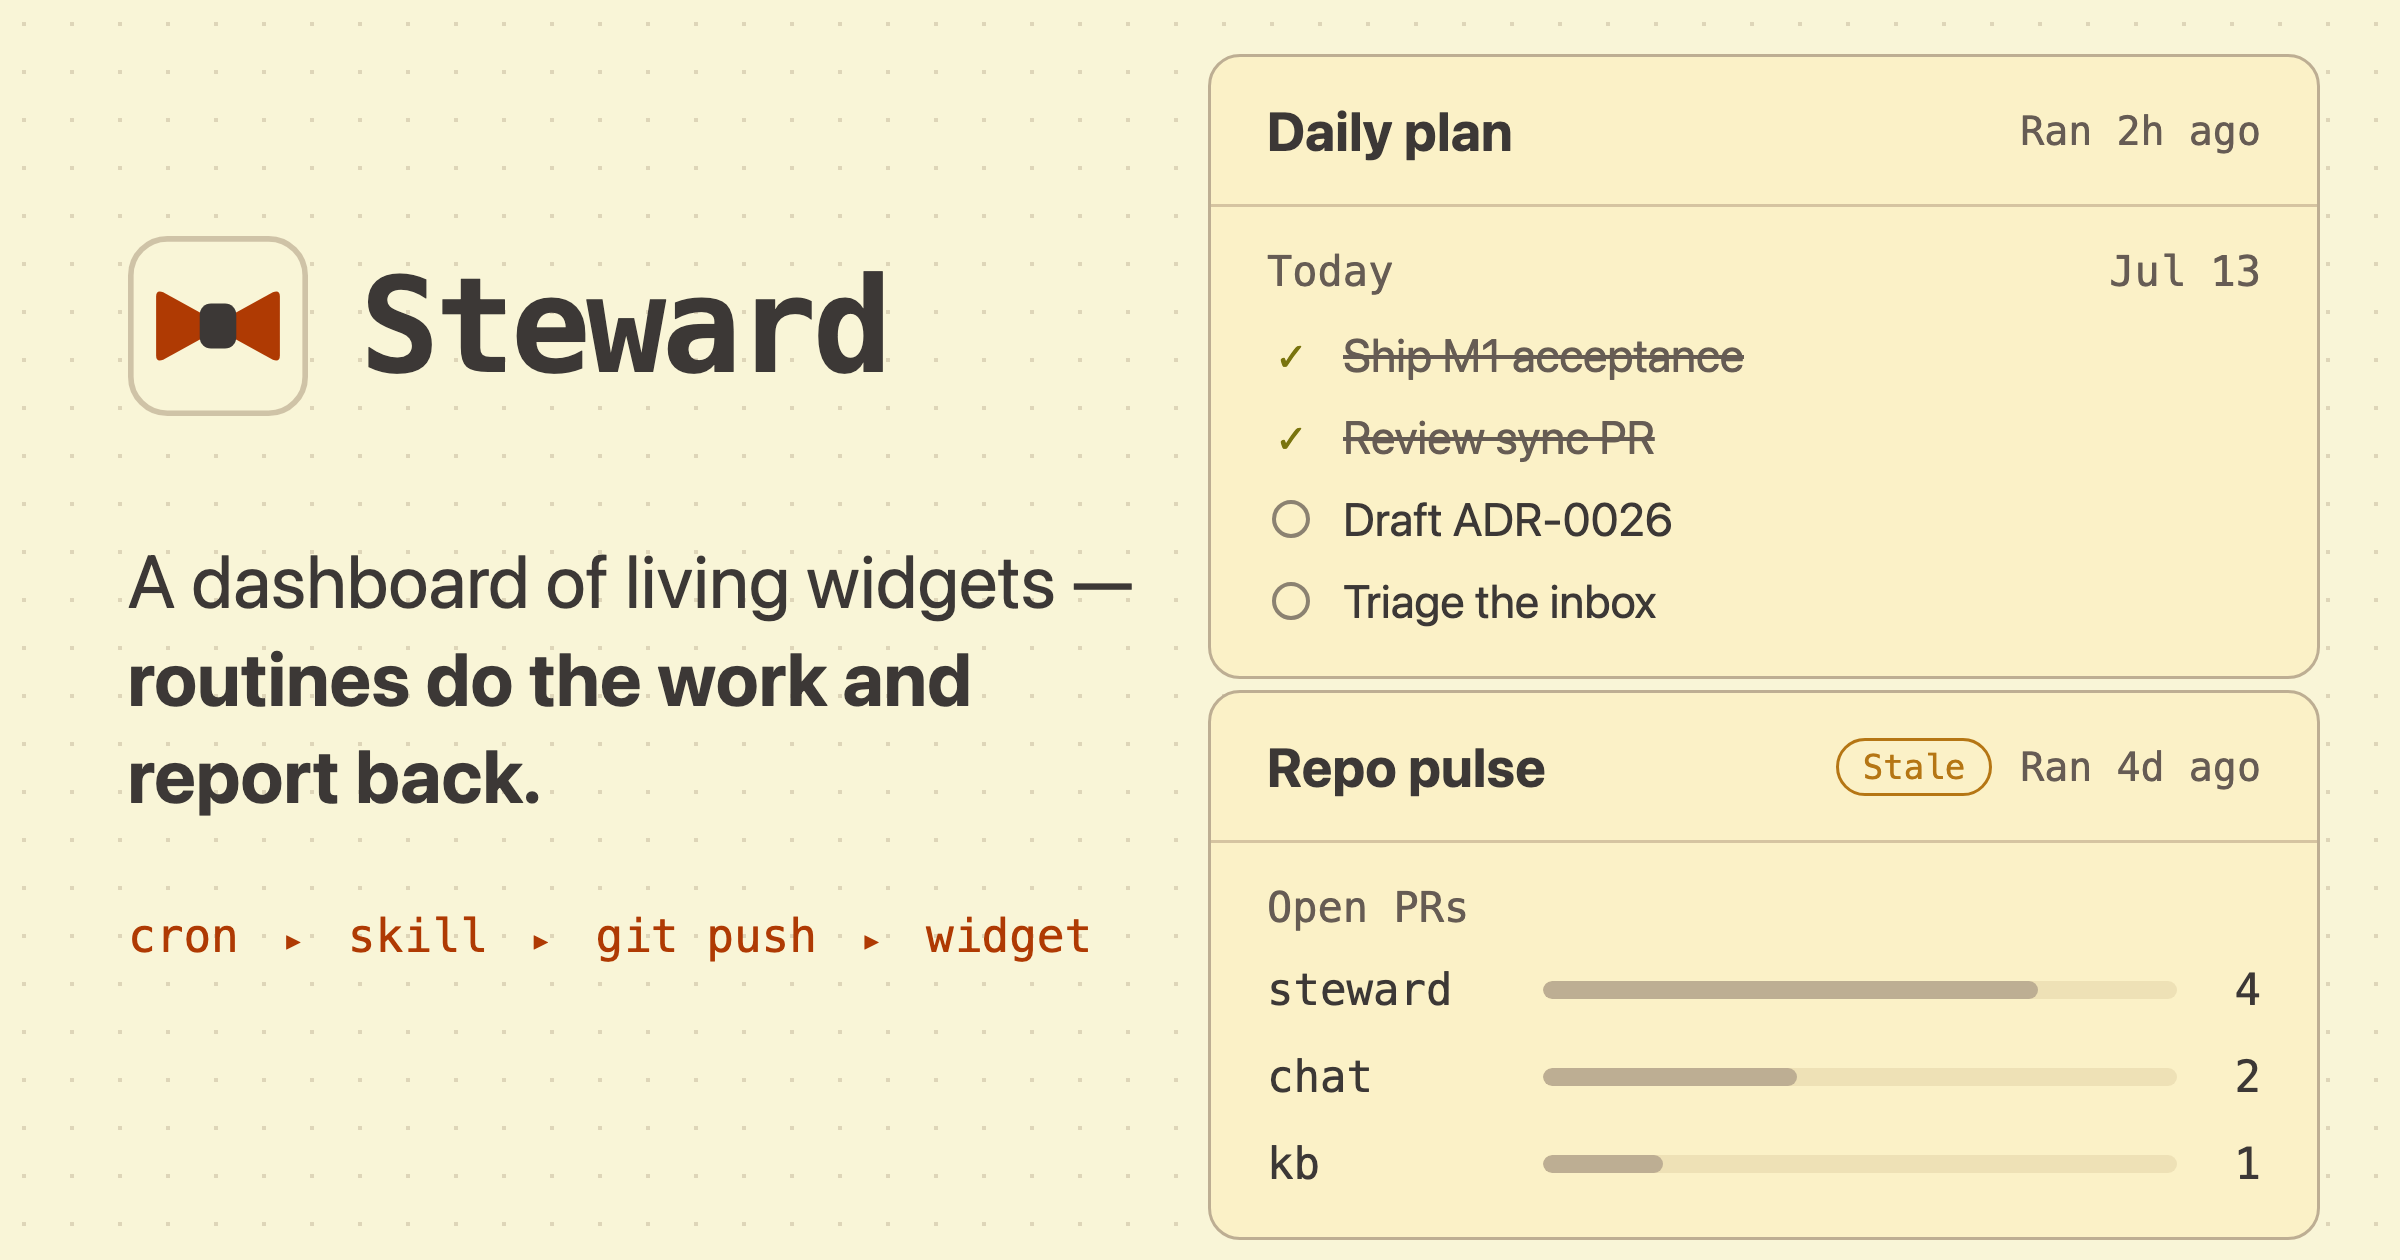
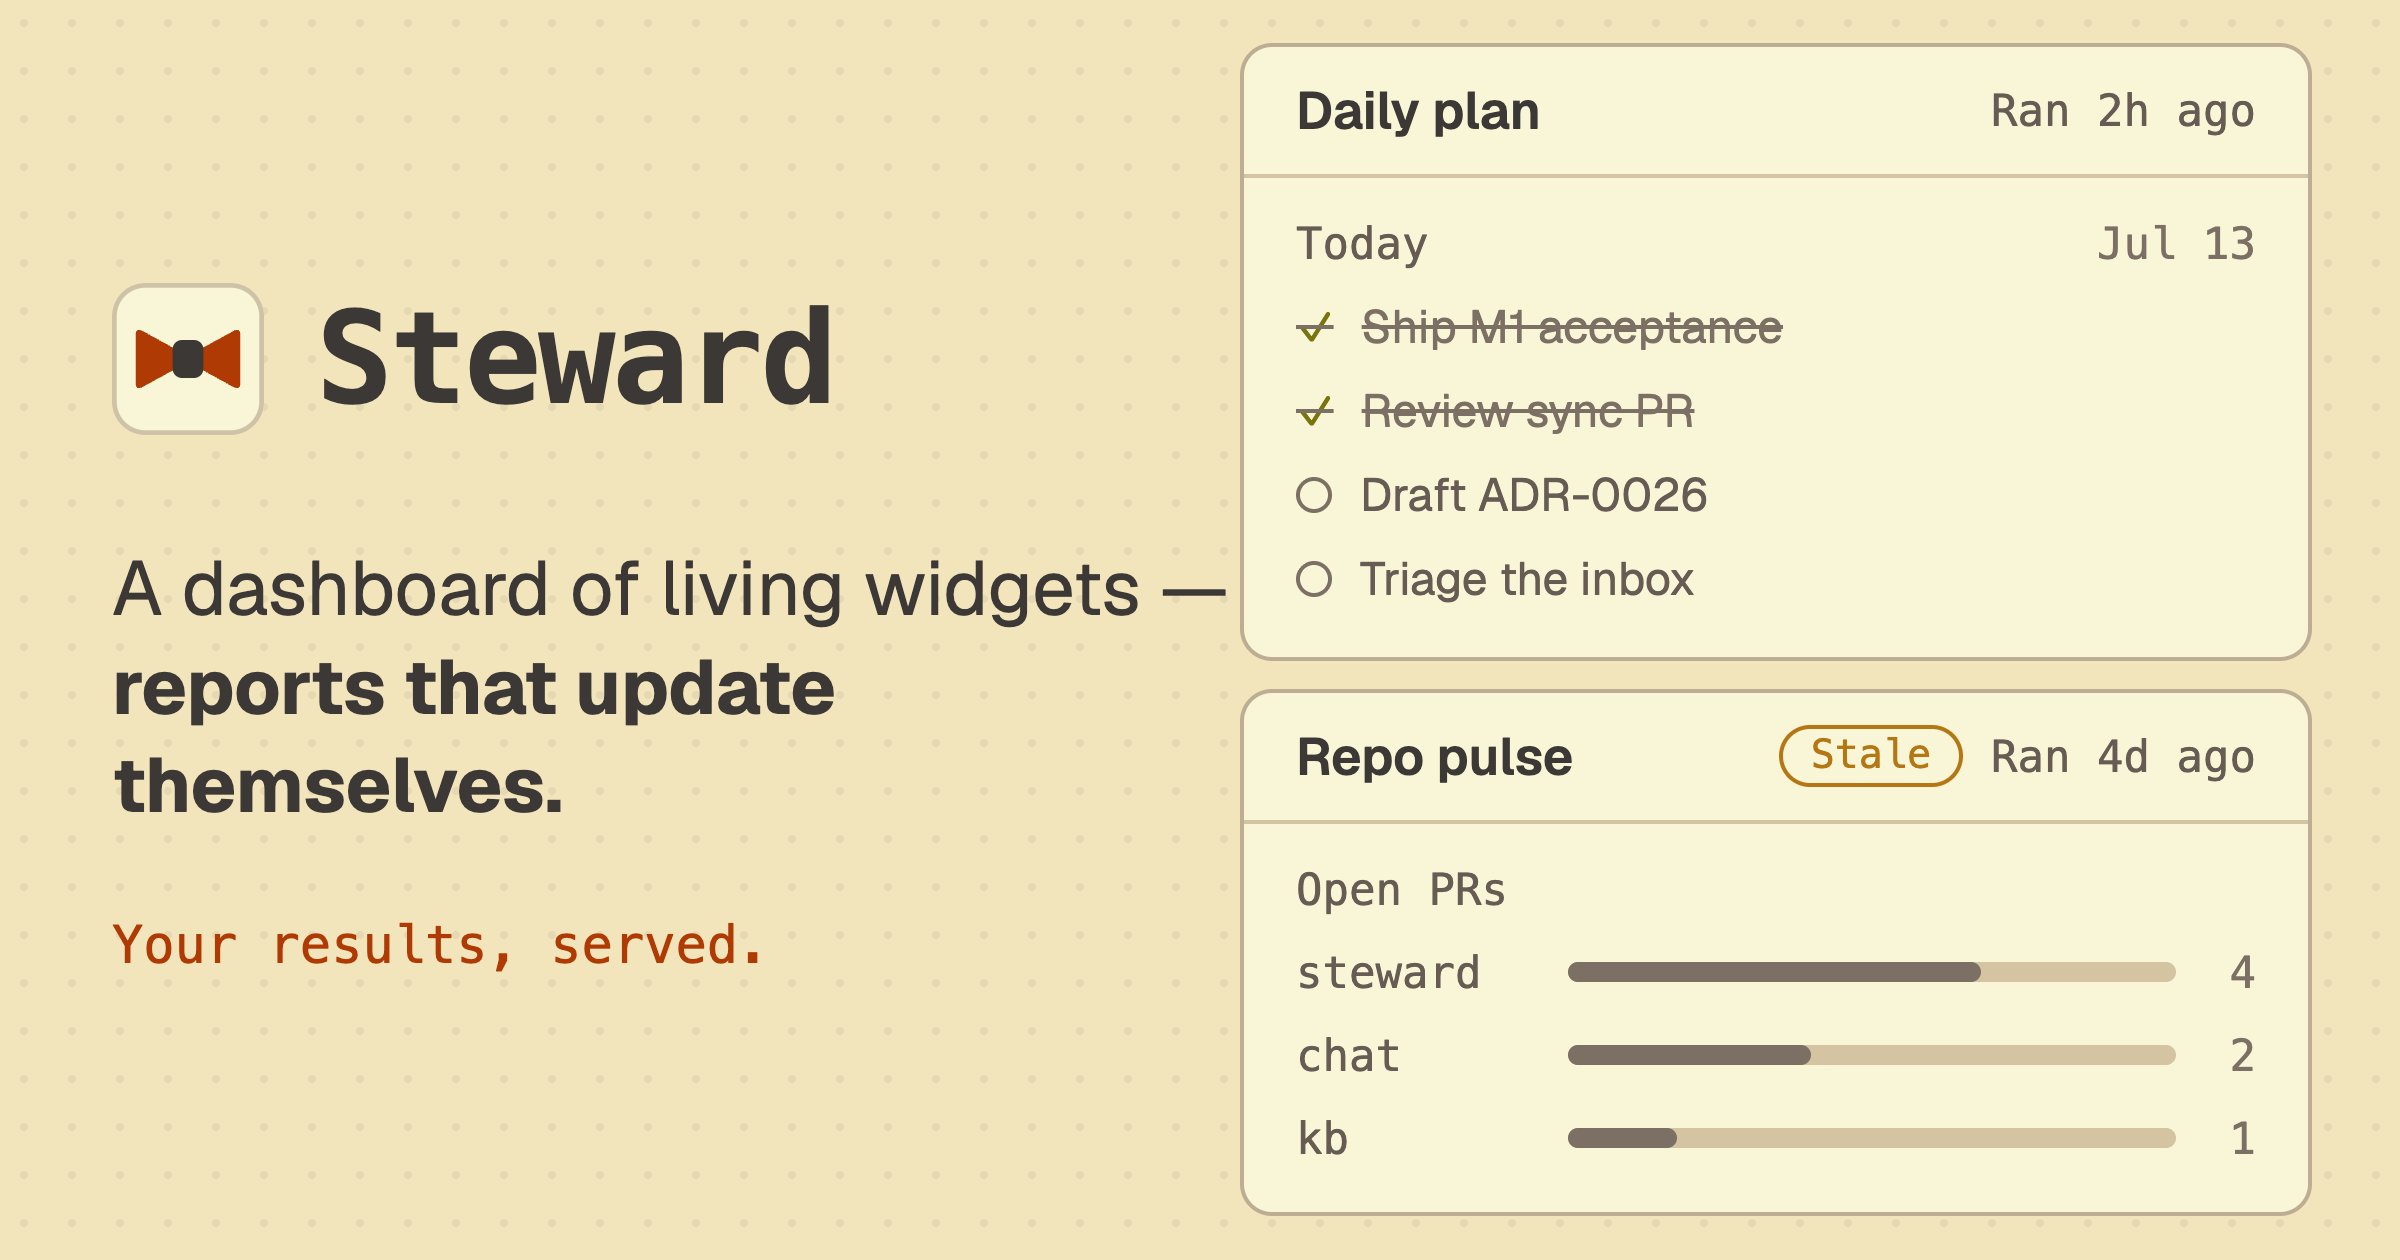
design: retire the cron▸skill▸git-push▸widget pipeline motif
The four-token strip predates routine templates — "skill" is no longer
how a routine's content is named, and the loop section already explains
the mechanism in prose. Removed from the landing hero, the loop section
step labels (now plain numbered steps), and the OG card, which is
regenerated with the current tagline ("reports that update themselves"),
the accent-forward mark, and "Your results, served." in its place —
same gruvbox-light palette, same demo widgets, 1200×630 @user.

Claude-Session: https://claude.ai/code/session_01H1u8RN6ZzZ7mEfukpe31b6

diff --git a/apps/web/app/components/landing.tsx b/apps/web/app/components/landing.tsx
@@ -49,19 +49,6 @@ export function Landing() {
             >
               {t("landing.deviceLink")}
             </a>
-
-            {/* The mechanism in four tokens — the same pipeline the OG card
-                carries, expanded step by step in the section below. Git words
-                stay untranslated (DESIGN.md). */}
-            <p className="mt-10 flex flex-wrap items-center gap-x-2 gap-y-1 font-mono text-xs text-ink-faint">
-              <PipeStep>cron</PipeStep>
-              <PipeArrow />
-              <PipeStep>skill</PipeStep>
-              <PipeArrow />
-              <PipeStep>git push</PipeStep>
-              <PipeArrow />
-              <PipeStep>widget</PipeStep>
-            </p>
           </div>
 
           {/* Right: the product itself — a small living board. Decorative, so
@@ -95,31 +82,27 @@ function SectionTitle({ children }: { children: React.ReactNode }) {
 }
 
 /**
- * The pipeline strip, expanded: one step per token. The token labels are
- * machine strings (mono, untranslated); the prose under each is chrome.
- * Claude Code is named here — the hero stays outcome-only.
+ * The loop in four numbered steps. Claude Code is named here — the hero
+ * stays outcome-only.
  */
 function LoopSection() {
   const t = useT()
   const steps = [
-    { token: "cron", body: t("landing.loop.cron") },
-    { token: "skill", body: t("landing.loop.skill") },
-    { token: "git push", body: t("landing.loop.push") },
-    { token: "widget", body: t("landing.loop.widget") },
+    t("landing.loop.cron"),
+    t("landing.loop.skill"),
+    t("landing.loop.push"),
+    t("landing.loop.widget"),
   ]
   return (
     <section>
       <SectionTitle>{t("landing.loop.title")}</SectionTitle>
       <ol className="mt-6 grid gap-x-10 gap-y-6 sm:grid-cols-2">
-        {steps.map((step, i) => (
-          <li key={step.token} className="text-sm leading-relaxed">
-            <span className="flex items-baseline gap-2 font-mono text-sm">
-              <span aria-hidden className="text-ink-faint">
-                {i + 1}.
-              </span>
-              <span className="text-foreground">{step.token}</span>
+        {steps.map((body, i) => (
+          <li key={body} className="flex gap-2 text-sm leading-relaxed">
+            <span aria-hidden className="font-mono text-ink-faint">
+              {i + 1}.
             </span>
-            <p className="mt-1.5 text-ink-dim">{step.body}</p>
+            <p className="text-ink-dim">{body}</p>
           </li>
         ))}
       </ol>
@@ -256,18 +239,6 @@ function LandingModeToggle() {
         )
       })}
     </div>
-  )
-}
-
-function PipeStep({ children }: { children: React.ReactNode }) {
-  return <span className="text-ink-dim">{children}</span>
-}
-
-function PipeArrow() {
-  return (
-    <span aria-hidden className="text-primary/70">
-      ▸
-    </span>
   )
 }
 